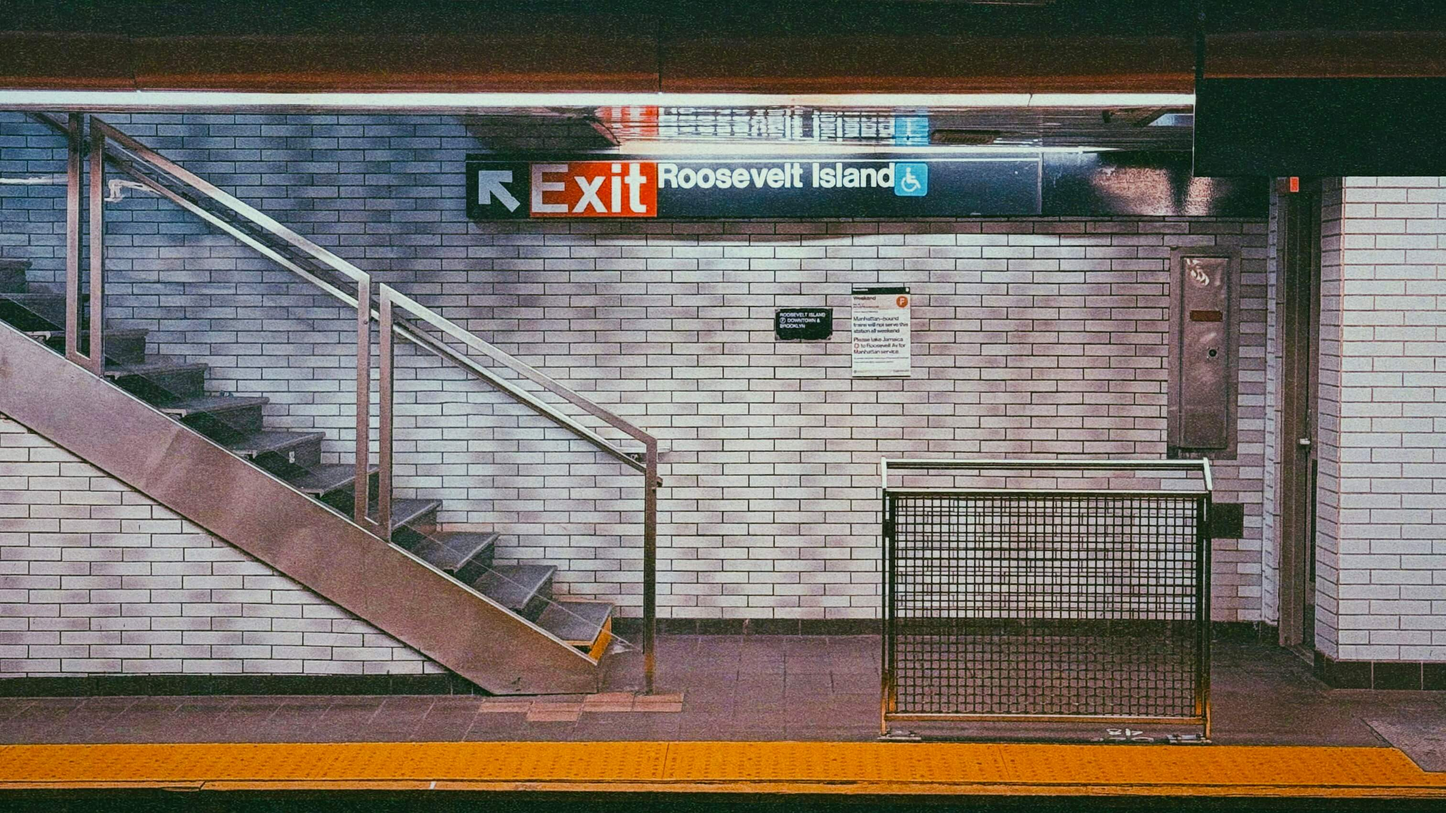
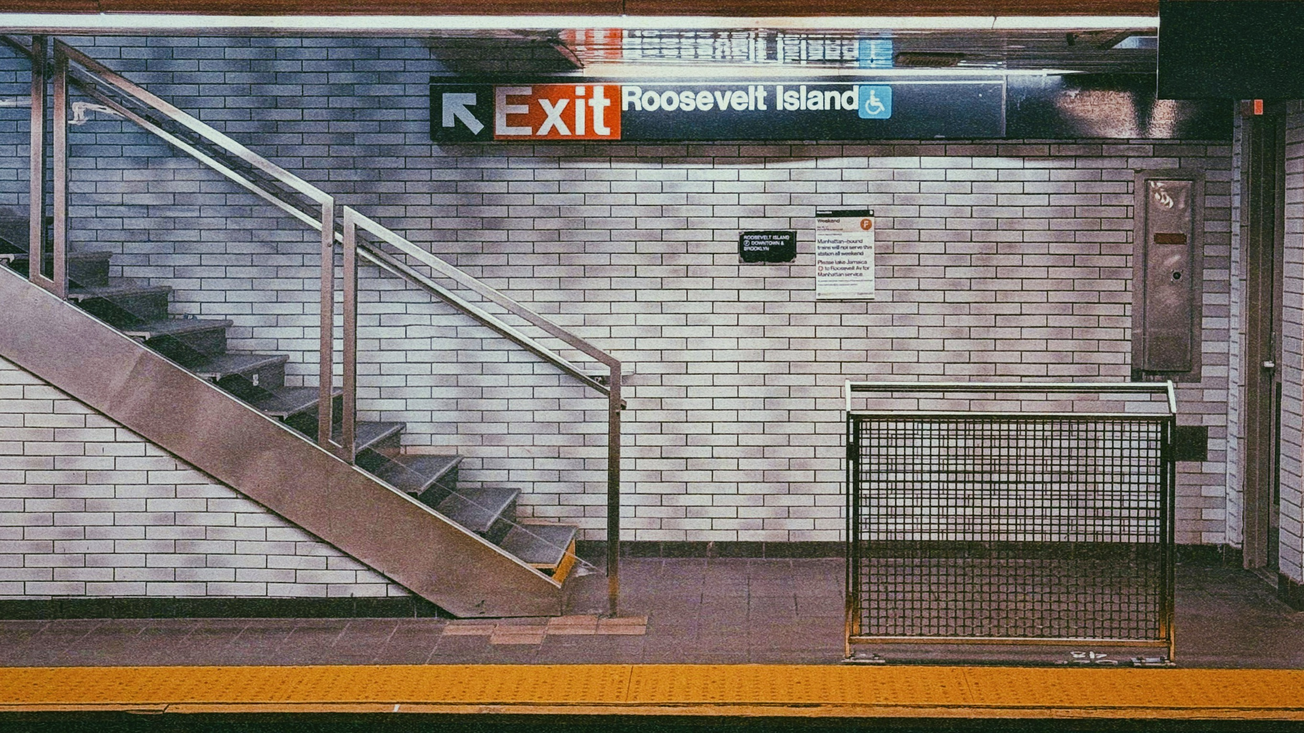
Adjusted EN homepage hero background image

diff --git a/assets/css/style.css b/assets/css/style.css
@@ -404,27 +404,20 @@ html[lang="zh-hans"] .lang {
 .home-hero{
   background-image: url("../image/hero-home-en-desktop.jpg");
   background-repeat: no-repeat;
+  background-position: center center;
+  background-size: contain;
 
-  /* ✅ 填满容器：不会有黑边（但会裁切） */
-  background-size: cover;
-
-  /* ✅ 你可以调这个来“裁切少一点/多一点”（往上挪=露更多上方） */
-  background-position: center 45%;
-
-  height: clamp(420px, 56.25vw, 700px);
-
-  background-color: #000;
+  aspect-ratio: 16 / 9;
+  width: 100%;
+  height: auto;
 
   position: relative;
   color: #fff;
-
-  /* 覆盖 .hero 原有大 padding，避免内容挤爆 */
   padding: 0 !important;
 
   display: flex;
   align-items: center;
 }
-
 /* 手机：用手机图，同样填满不留边 */
 @media (max-width: 768px){
   .home-hero{
